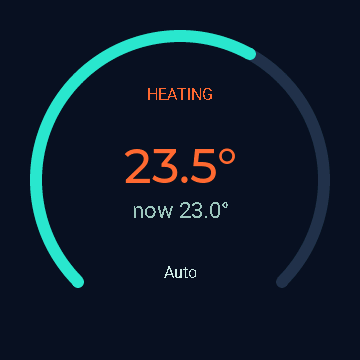
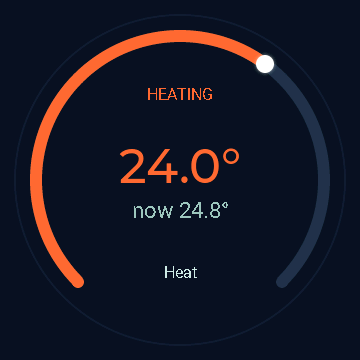
Release 2.2.3: thermostat polish (colour-coded arc + target head-dot + depth ring); refresh thermostat screenshot

diff --git a/CHANGELOG.md b/CHANGELOG.md
@@ -3,6 +3,11 @@
 All notable changes to this project are documented here. The format is based on
 [Keep a Changelog](https://keepachangelog.com/en/1.1.0/).
 
+## [2.2.3] - 2026-06-19
+
+### Changed
+- Thermostat screen polished: the whole arc is now colour-coded by action (heating / cooling / idle / off), a white head-dot marks the target on the gauge, and a faint depth ring was added.
+
 ## [2.2.2] - 2026-06-19
 
 ### Changed

diff --git a/README.md b/README.md
@@ -45,7 +45,7 @@ Everything is navigated with **swipes + taps on the screen** and the **rotary kn
 | <img src="assets/screens/player.png" width="170"> | **Player**<br>Album art, title & artist, prev / play-pause / next and a progress bar. Auto-shows when playback starts. |
 | <img src="assets/screens/controls.png" width="170"> | **Control tiles** (swipe up)<br>Four configurable tiles toggling any HA entity; each has its own icon and label, and the colour follows the live on/off state. |
 | <img src="assets/screens/weather.png" width="170"> | **Weather**<br>A 7-day dial; turn the knob to scroll days. Animated condition icon, colour-coded temperature, and a glow that slides to the selected day. |
-| <img src="assets/screens/thermostat.png" width="170"> | **Thermostat**<br>A dial for a `climate.*` entity; the knob sets the target, tap toggles on/off. Accent colour follows heating / cooling / idle. |
+| <img src="assets/screens/thermostat.png" width="170"> | **Thermostat**<br>A dial for a `climate.*` entity; the knob sets the target (a head-dot rides the gauge), tap toggles on/off. The whole arc is colour-coded by action - heating / cooling / idle / off. |
 | <img src="assets/screens/sensors.png" width="170"> | **Sensors**<br>A glance of 1-6 configurable Home Assistant entities, shown big one at a time; turn the knob to cycle (dots show the position). Any entity, pulled straight from HA. |
 | <img src="assets/screens/timer.png" width="170"> | **Timer**<br>Set by knob or voice; big countdown with a colour-coded depleting ring (green → amber → red) and a head-dot, SET / RUNNING / PAUSED status, pause/stop, and a fancy alarm screen when it finishes. |
 | <img src="assets/screens/cool-cars.png" width="170"> | **Cool Cars**<br>A lane-racing arcade game - the knob steers, dodge traffic and grab coins. |